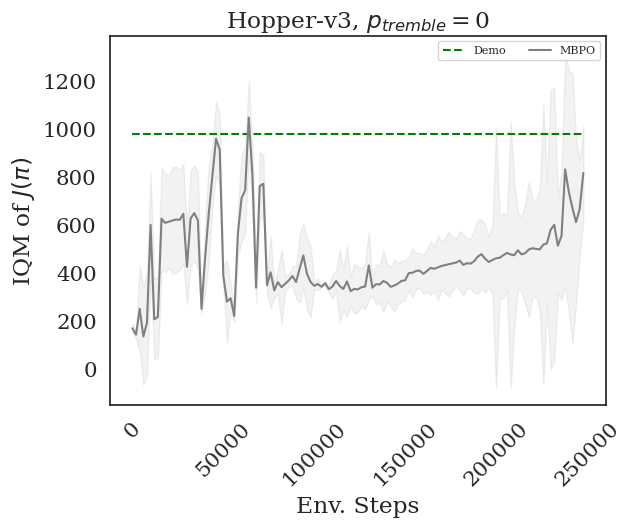
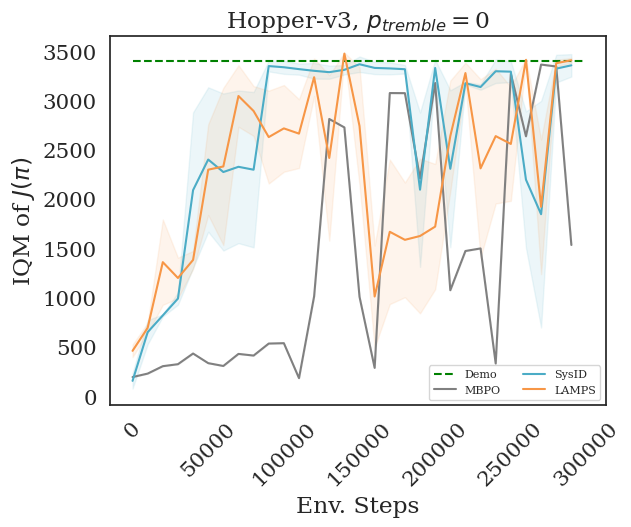
wip

diff --git a/MujocoSysID/aggregate_hyrda_results.py b/MujocoSysID/aggregate_hyrda_results.py
@@ -10,11 +10,11 @@ def is_non_zero_file(fpath):
     return os.path.isfile(fpath) and os.path.getsize(fpath) > 0
 
 
-def main(env_name, override, partition):
+def main(env_name, override, partition, date):
     algs = ["lamps", "sysid", "mbpo"]
 
     for alg in algs:
-        base_dir = Path("exp", alg, "result", env_name)
+        base_dir = Path("exp", alg, partition, env_name)
         csv_results_dir = Path("csv_results", env_name)
         csv_results_dir.mkdir(exist_ok=True, parents=True)
         if override:
@@ -24,7 +24,7 @@ def main(env_name, override, partition):
                     f.unlink()
 
         # loop through date/run_id/multi_run_num
-        for subdir in base_dir.glob(f"{partition}/*/*"):
+        for subdir in base_dir.glob(f"{date}/*/*"):
             if not subdir.is_dir():
                 continue
             results_file = Path(subdir, "results.csv")
@@ -38,7 +38,8 @@ def main(env_name, override, partition):
                 print(f"Error reading {results_file}: {e}")
                 continue
 
-            if not is_non_zero_file(results_file) or len(df) < 400:
+            if not is_non_zero_file(results_file) or (len(df) < 75 and len(df) != 30):
+                print(f"Skipping {results_file} because it has {len(df)} entries")
                 continue
 
             # Look into .hydra directory for the hydra.yml file
@@ -71,7 +72,8 @@ if __name__ == "__main__":
         help="Name of the environment",
     )
     parser.add_argument("-o", "--override", action="store_true", default=False)
-    parser.add_argument("-p", type=str, default="*")
+    parser.add_argument("-p", type=str, default="result")
+    parser.add_argument("-d", type=str, required=True)
     args = parser.parse_args()
 
     env_abbr = args.env_name
@@ -86,4 +88,4 @@ if __name__ == "__main__":
     elif env_abbr == "walk":
         env_name = "Walker2d-v3"
     env_name = f"gym___{env_name}"
-    main(env_name, args.override, args.p)
+    main(env_name, args.override, args.p, args.d)

diff --git a/MujocoSysID/generate_plots.py b/MujocoSysID/generate_plots.py
@@ -68,7 +68,7 @@ def main(env_abbrv, env_name):
         # SB3 Experts
         "ant": 4596,
         "hc": 10317,
-        "hop": 978,
+        "hop": 3399,
         "walk": 4395,
         "hum": 6160,
         ### Yuda Experts
@@ -79,11 +79,9 @@ def main(env_abbrv, env_name):
         # "walk": 5740.80,
     }
 
-    steps = 125
+    steps = 150
     sz = 2000
     for alg in algs_to_colors.keys():
-        if not (alg == "exp" or alg == "mbpo"):
-            continue
         if alg == "exp":
             plt.plot(
                 np.arange(steps) * sz,
@@ -93,6 +91,12 @@ def main(env_abbrv, env_name):
                 label=algs_to_labels[alg],
             )
         else:
+            if alg == "mbpo":
+                steps = 150
+                sz = 4000
+            else:
+                steps = 30
+                sz = 10000
             csvs = [f for f in csv_results_dir.glob("*.csv") if alg in f.name]
             scores = []
             for csv in csvs:

diff --git a/MujocoSysID/mbrl/algorithms/lamps.py b/MujocoSysID/mbrl/algorithms/lamps.py
@@ -235,6 +235,7 @@ def train(
     best_eval_reward = -np.inf
     epoch = 0
     sac_buffer = None
+    eval_every = 5 * cfg.overrides.epoch_length
     while env_steps < cfg.overrides.num_steps:
         rollout_length = int(
             mbrl.util.math.truncated_linear(
@@ -350,7 +351,7 @@ def train(
                     logger.dump(updates_made, save=True)
 
             # ------ Epoch ended (evaluate and save model) ------
-            if (env_steps + 1) % cfg.overrides.epoch_length == 0:
+            if (env_steps + 1) % (5 * cfg.overrides.epoch_length) == 0:
                 if not is_maze:
                     avg_reward = evaluate(
                         test_env,

diff --git a/MujocoSysID/mbrl/algorithms/mbpo.py b/MujocoSysID/mbrl/algorithms/mbpo.py
@@ -271,7 +271,8 @@ def train(
                     logger.dump(updates_made, save=True)
 
             # ------ Epoch ended (evaluate and save model) ------
-            if (env_steps + 1) % cfg.overrides.epoch_length == 0:
+            # if (env_steps + 1) % cfg.overrides.epoch_length == 0:
+            if (env_steps + 1) % (2 * cfg.overrides.epoch_length) == 0:
                 avg_reward = evaluate(
                     test_env, agent, cfg.algorithm.num_eval_episodes, video_recorder
                 )

diff --git a/MujocoSysID/mbrl/algorithms/sysid.py b/MujocoSysID/mbrl/algorithms/sysid.py
@@ -314,7 +314,8 @@ def train(
                     logger.dump(updates_made, save=True)
 
             # ------ Epoch ended (evaluate and save model) ------
-            if (env_steps + 1) % cfg.overrides.epoch_length == 0:
+            # if (env_steps + 1) % cfg.overrides.epoch_length == 0:
+            if (env_steps + 1) % (5 * cfg.overrides.epoch_length) == 0:
                 avg_reward = evaluate(
                     test_env, agent, cfg.algorithm.num_eval_episodes, video_recorder
                 )
